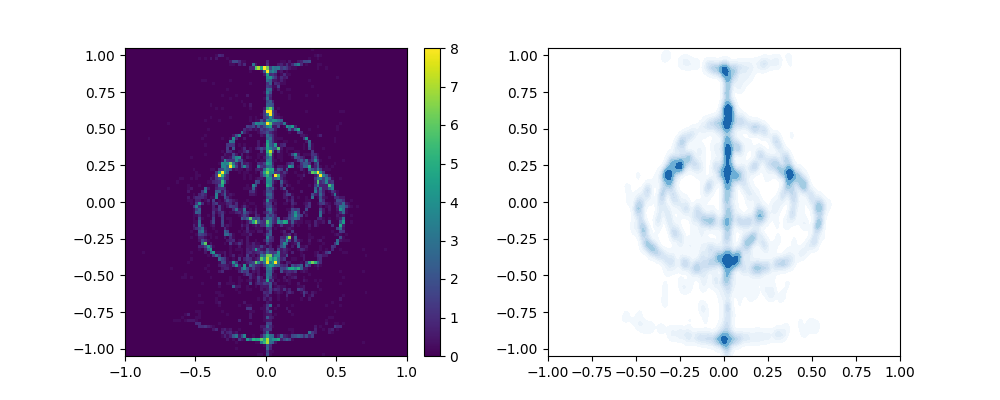
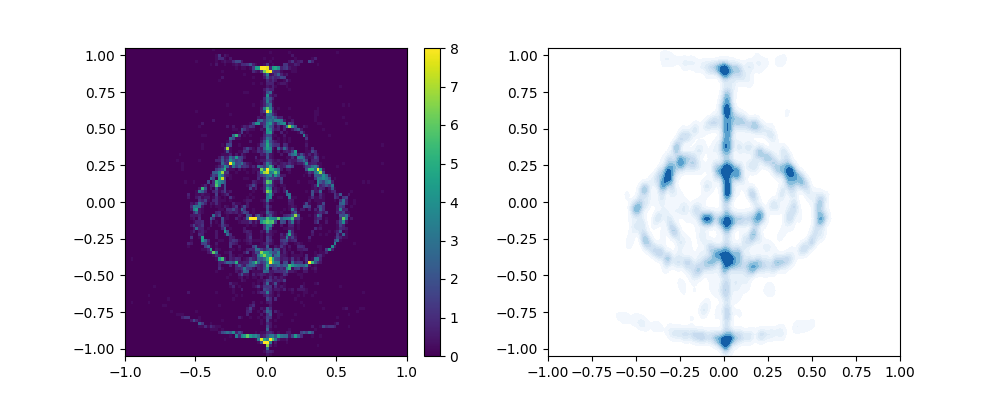
generic commit

diff --git a/scripts/transport/k_diffusion.py b/scripts/transport/k_diffusion.py
@@ -460,7 +460,7 @@ class CondTransportKernel(nn.Module):
 
 def cond_kernel_transport(X_mu, Y_mu, Y_eta, Y_mean, Y_var, X_mu_test, Y_eta_test, Y_mu_test, X_mu_val,
                           Y_mean_test, Y_var_test, Y_mu_approx, params, iters=-1, approx=False,mmd_lambda=0, step_num = 1,
-                          reg_lambda=1e-7, grad_cutoff = .0001, n_iter = 2, target_eps = 1, var_eps = 1/3):
+                          reg_lambda=1e-7, grad_cutoff = .0001, n_iter = 200, target_eps = 1, var_eps = 1/3):
     transport_params = {'X_mu': X_mu, 'Y_mu': Y_mu, 'Y_eta': Y_eta, 'nugget': 1e-4, 'Y_var': Y_var, 'Y_mean': Y_mean,
                         'fit_kernel_params': deepcopy(params['fit']), 'mmd_kernel_params': deepcopy(params['mmd']),
                         'print_freq': 10, 'learning_rate': .001, 'reg_lambda': reg_lambda, 'var_eps': var_eps,
@@ -475,7 +475,7 @@ def cond_kernel_transport(X_mu, Y_mu, Y_eta, Y_mean, Y_var, X_mu_test, Y_eta_tes
 
 
 def comp_cond_kernel_transport(X_mu, Y_mu, Y_eta, Y_eta_test, X_mu_test, Y_mu_test, X_mu_val, params,
-                               target_eps = 0.05,n_transports=100, reg_lambda=1e-7, n_iter = 2,var_eps = 1/3,
+                               target_eps = .1,n_transports=200, reg_lambda=1e-7, n_iter = 2,var_eps = 1/3,
                                grad_cutoff = .0001, approx_path = True):
     param_keys = ['fit_kernel','Lambda_mean', 'X_mean',  'Lambda_var', 'X_var', 'var_eps']
     models_param_dict = {key: [] for key in param_keys}
@@ -956,7 +956,7 @@ def test_panel(plot_steps = False, approx_path = False, N = 10000, test_name = '
                     pass
 
 def run():
-    test_panel(N=8000, n_transports=600, k=1, approx_path=False, test_name='test4',
+    test_panel(N=8000, n_transports=100, k=1, approx_path=False, test_name='test4',
                test_keys=['elden'])
 
     #test_panel(N=2500, n_transports=100 , k=1, approx_path=False, test_name='exp', test_keys=['spheres'])
